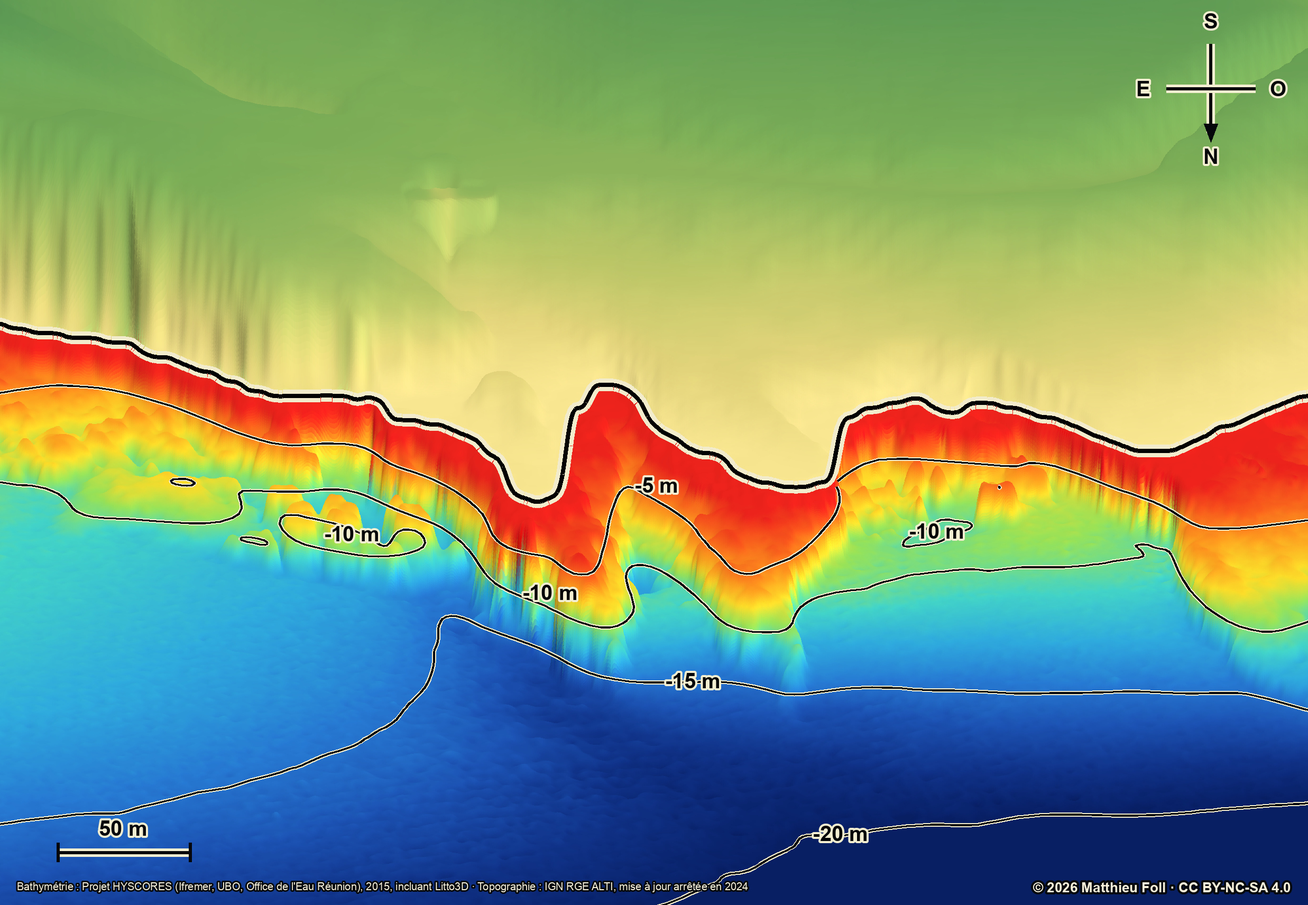
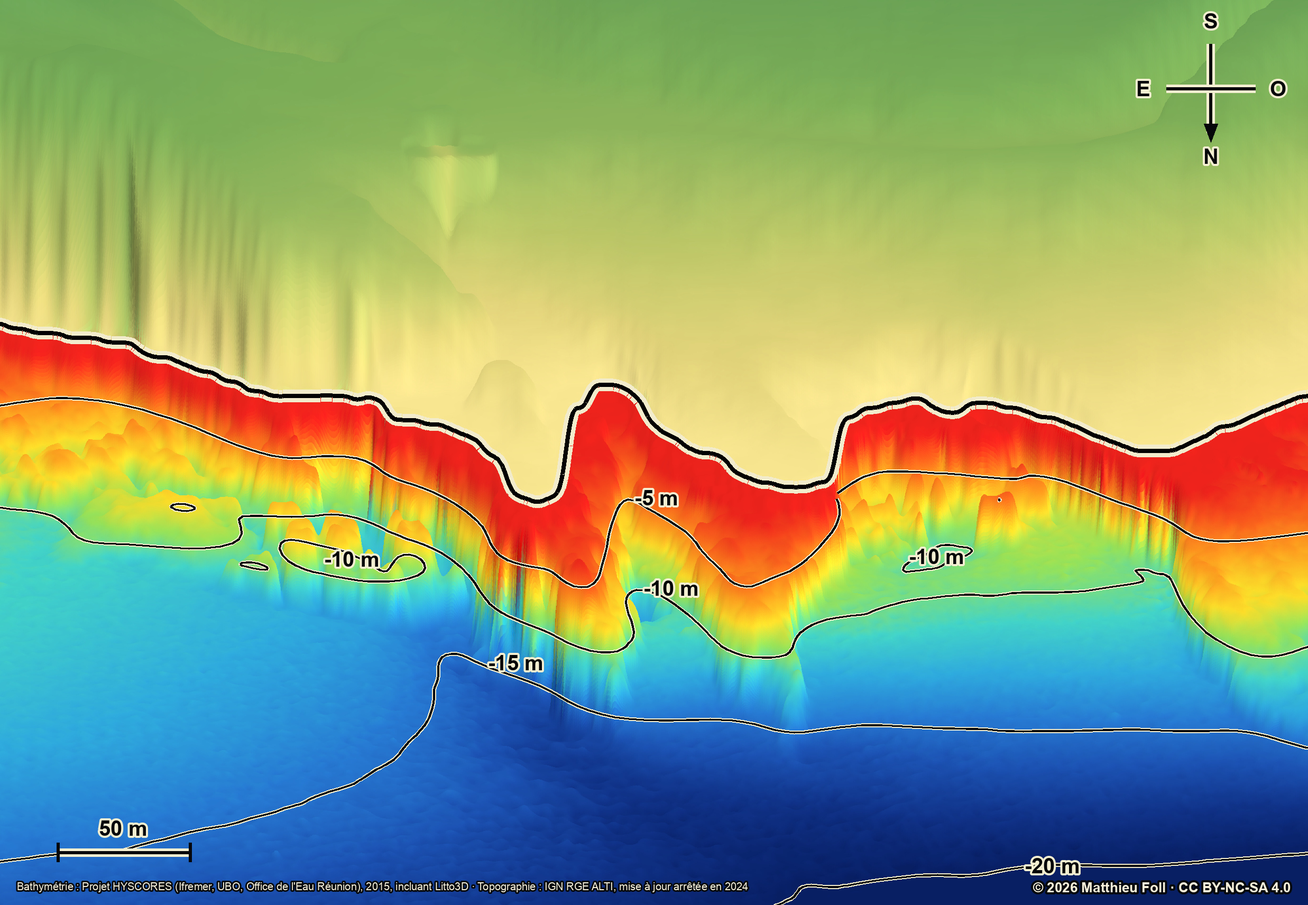
Standardize 3D relief at 4x

diff --git a/tests/test_site_config.py b/tests/test_site_config.py
@@ -5,7 +5,13 @@ import json
 import unittest
 from pathlib import Path
 
-from site_config import DEFAULT_CACHE, ROOT, paths_for, validate_config
+from site_config import (
+    DEFAULT_CACHE,
+    DEFAULT_VERTICAL_EXAGGERATION,
+    ROOT,
+    paths_for,
+    validate_config,
+)
 
 
 SITES = ROOT / "sites"
@@ -37,6 +43,14 @@ class SiteConfigTests(unittest.TestCase):
         for config in self.configs:
             with self.subTest(slug=config["slug"]):
                 validate_config(config)
+
+    def test_reference_sites_share_the_default_vertical_exaggeration(self) -> None:
+        for config in self.configs:
+            with self.subTest(slug=config["slug"]):
+                self.assertEqual(
+                    config["vertical_exaggeration"],
+                    DEFAULT_VERTICAL_EXAGGERATION,
+                )
 
     def test_invalid_bbox_is_rejected(self) -> None:
         config = copy.deepcopy(self.configs[0])

diff --git a/site_config.py b/site_config.py
@@ -9,7 +9,7 @@ from typing import Any, Mapping, Sequence
 
 ROOT = Path(__file__).resolve().parent
 DEFAULT_CACHE = ROOT / ".tmp" / "bathy-renders"
-DEFAULT_VERTICAL_EXAGGERATION = 3.04
+DEFAULT_VERTICAL_EXAGGERATION = 3.9935327405
 
 _SLUG_PATTERN = re.compile(r"[a-z0-9]+(?:-[a-z0-9]+)*\Z")
 

diff --git a/WORKFLOW.md b/WORKFLOW.md
@@ -146,7 +146,7 @@ Ces cartes sont des aides a la lecture du relief et a l'orientation generale. El
 Les variantes orthophoto sont des sorties supplementaires. En 2D, la texture remplace le fond topographique a l'interieur du masque terrestre et, lorsqu'elle est configuree, dans la tranche marine peu profonde. En 3D, l'orthophoto et son masque alpha georeference sont alignes sur le MNT, puis tournes, recadres et reechantillonnes en parallele du maillage. Le masque alpha devient nul lorsque la profondeur de controle atteint `imagery_sea_max_depth_m`; une bande calculee seulement par distance a la cote ne peut donc pas prolonger l'image en mer profonde. Les lacunes des rasters restent invalides et recoivent un fond neutre, au lieu d'etre transformees en faux fond marin a `max_depth_m`.
 
 - `coast_frame_fraction` : hauteur de la cote dans l'image 3D, de 0 en haut a 1 en bas. L'augmenter rapproche visuellement la camera de la cote en donnant moins de hauteur au large. L'Hermitage utilise `0,26`; le Cap utilise `0,54` car son relief utile est concentre pres des deux pointes et son large devient rapidement uniforme.
-- `vertical_exaggeration` : facteur sans dimension entre l'echelle verticale et l'echelle horizontale du rendu. Sa signification reste stable lorsque la resolution du raster, le canevas ou la largeur visible changent.
+- `vertical_exaggeration` : facteur sans dimension entre l'echelle verticale et l'echelle horizontale du rendu. Sa signification reste stable lorsque la resolution du raster, le canevas ou la largeur visible changent. Le standard commun aux sites de reference et aux futurs sites est `3.9935327405`, soit environ `4×`, afin de rendre les reliefs sous-marins suffisamment lisibles tout en conservant le plan 2D comme reference metrique.
 - `topography_resolution_m` : resolution demandee au WMS IGN. La requete est refusee au-dela de 5 000 pixels sur un axe.
 
 Lorsque `along_view_projection_scale` differe de `1`, l'axe de profondeur de la perspective est volontairement amplifie. Le plan 2D demeure la reference metrique dans toutes les directions.
